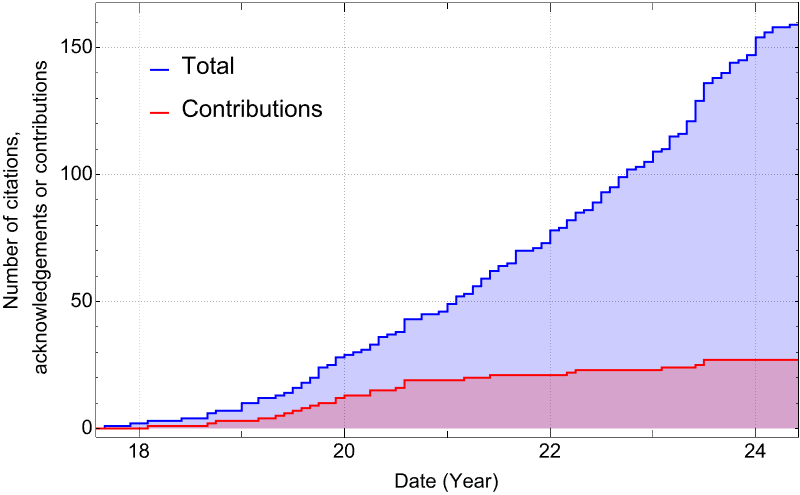
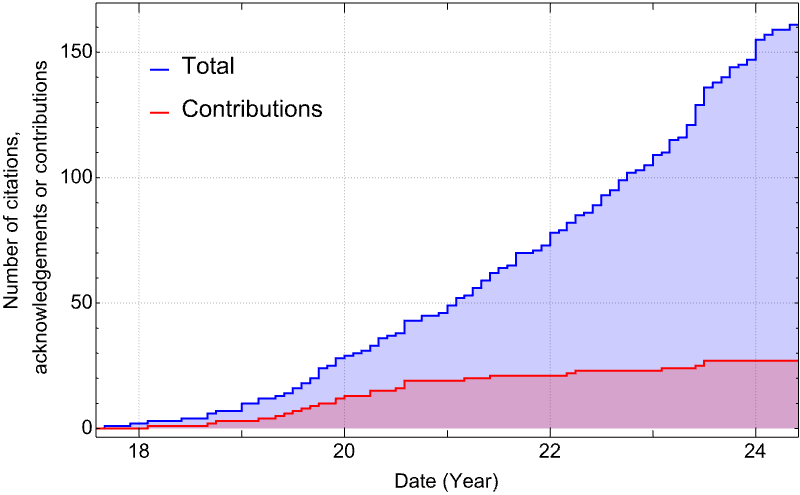
Add two papers the use and cite the BHPToolkit

diff --git a/users.md b/users.md
@@ -19,11 +19,15 @@ The graph below show the accumulated citations to the Toolkit over time. The blu
 
 Below is a list of research papers that have used or extended the Toolkit. Papers that have contributed code or data to the Toolkit have a (*) after them.
 
-159\. "Self-force framework for transition-to-plunge waveforms", Lorenzo Küchler, Geoffrey Compère, Leanne Durkan, Adam Pound, [arXiv:2405.00170](https://arxiv.org/abs/2405.00170)
+161\. "Backreaction from quantum fluxes at the Kerr inner horizon", Tyler McMaken, [arXiv:2405.13221](https://arxiv.org/abs/2405.13221)
 
-158\. "Implementation of a GHZ-Teukolsky puncture scheme for gravitational self-force calculations", Patrick Bourg, Benjamin Leather, Marc Casals, Adam Pound, Barry Wardell, [arXiv:2403.12634](https://arxiv.org/abs/2403.12634)
+160\. "Self-force framework for transition-to-plunge waveforms", Lorenzo Küchler, Geoffrey Compère, Leanne Durkan, Adam Pound, [arXiv:2405.00170](https://arxiv.org/abs/2405.00170)
 
-157\. "Worldtube excision method for intermediate-mass-ratio inspirals: self-consistent evolution in a scalar-charge model", Nikolas A. Wittek, Adam Pound, Harald P. Pfeiffer, Leor Barack, [arXiv:2403.08864](https://arxiv.org/abs/2403.08864)
+159\. "Implementation of a GHZ-Teukolsky puncture scheme for gravitational self-force calculations", Patrick Bourg, Benjamin Leather, Marc Casals, Adam Pound, Barry Wardell, [arXiv:2403.12634](https://arxiv.org/abs/2403.12634)
+
+158\. "Worldtube excision method for intermediate-mass-ratio inspirals: self-consistent evolution in a scalar-charge model", Nikolas A. Wittek, Adam Pound, Harald P. Pfeiffer, Leor Barack, [arXiv:2403.08864](https://arxiv.org/abs/2403.08864)
+
+157\. "Hawking radiation inside a rotating black hole", Tyler McMaken, Andrew J. S. Hamilton, [arXiv:2401.03098](https://arxiv.org/abs/2401.03098)
 
 156\. "Conserved currents for Kerr and orthogonality of quasinormal modes", Stephen R. Green, Stefan Hollands, Laura Sberna, Vahid Toomani, Peter Zimmerman, [arXiv:2210.15935](https://arxiv.org/abs/2210.15935)
 
